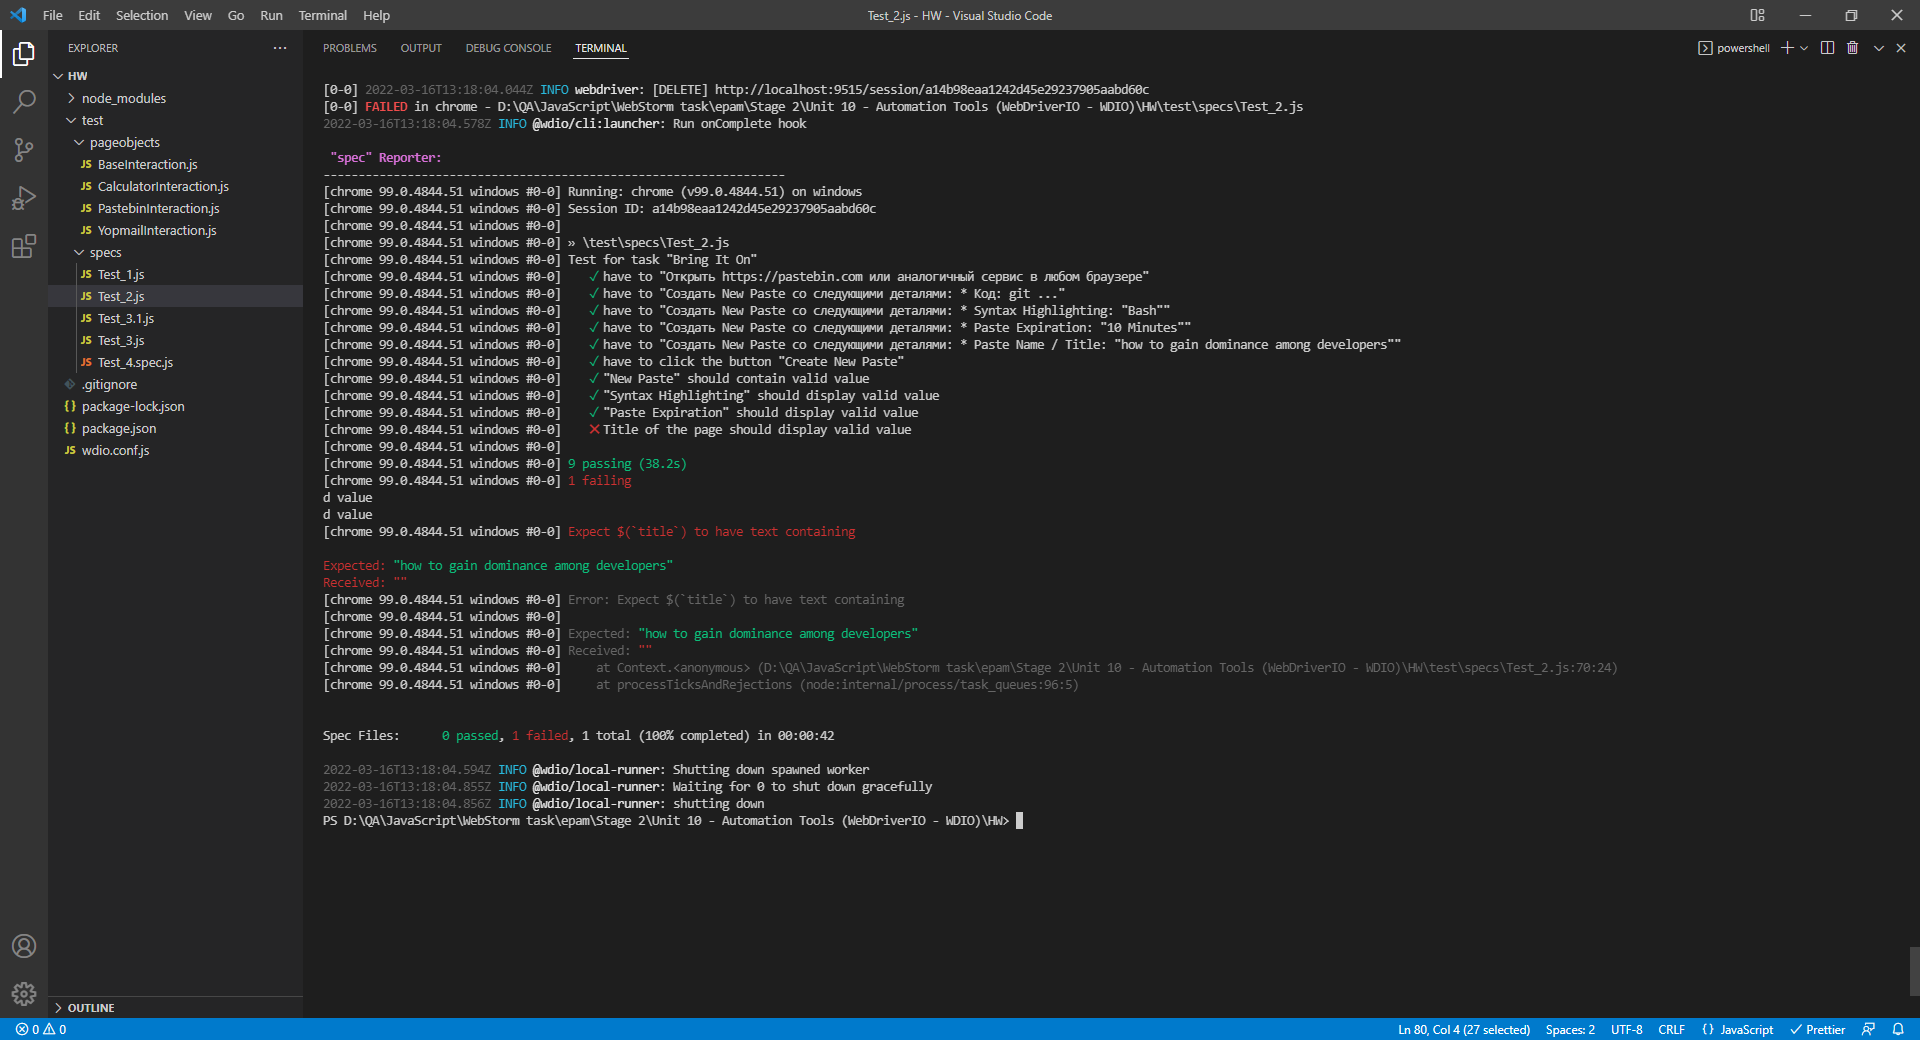
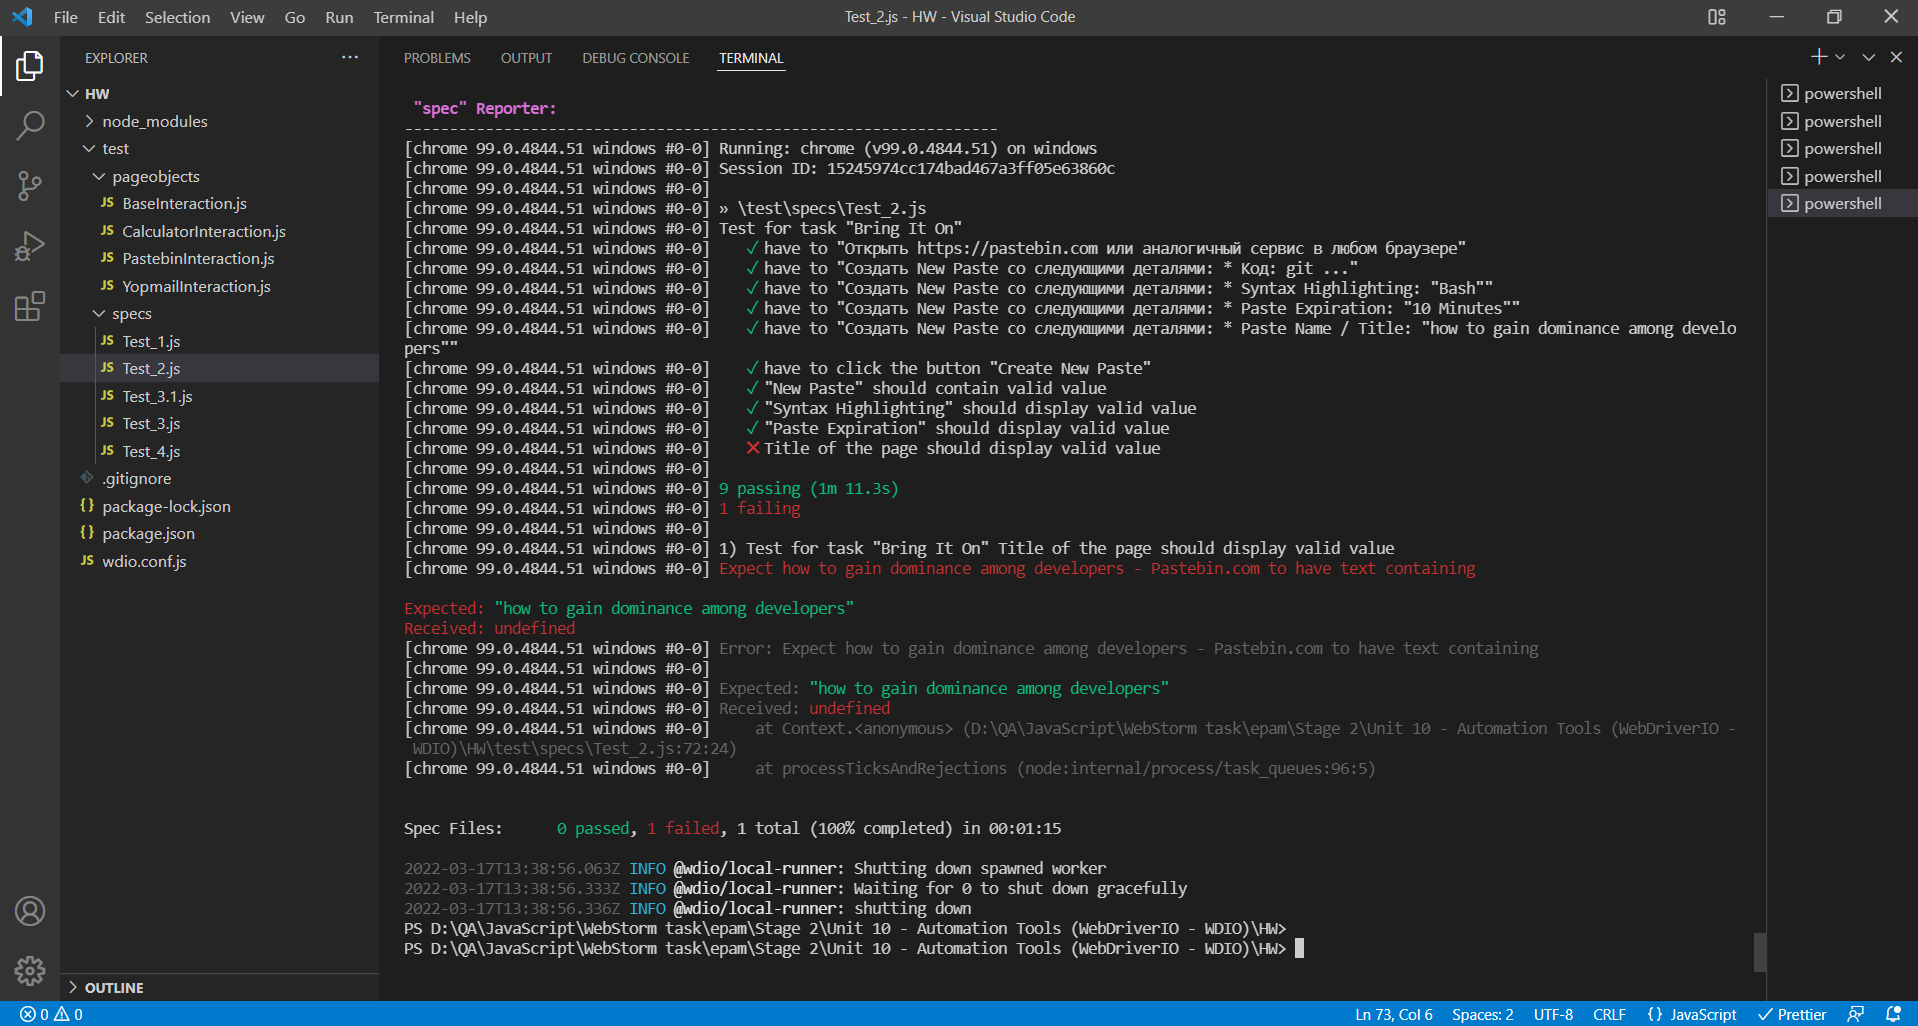
Upload redo files

diff --git a/test/specs/Test_3.1.js b/test/specs/Test_3.1.js
@@ -1,0 +1,86 @@
+const calculator = require('../pageobjects/CalculatorInteraction.js');
+
+describe('Test for task "Hurt Me Plenty"', function () {
+  const textSearchRequest = 'Google Cloud Platform Pricing Calculator';
+
+  const textForInstaces_a = '4';
+  // const contentForInstaces_b = '[class="ng-binding ng-scope"]'; //document.querySelector('[class="ng-binding ng-scope"]').textContent;
+
+  // const typeOfCalcolator_a = By.xpath('//span[text()="Compute Engine"]');
+  // const typeOfCalcolator_b = 'Compute Engine';
+
+  // const operatingSystemb_a = '[class="md-list-item-text flex"]'; //document.querySelector('[class="md-list-item-text flex"]').textContent;
+  // const operatingSystemb_b = 'Operating System / Software: Free';
+
+  const checkFieldVMClass =
+    "//md-list-item[@ng-if='item.items.editHook && item.items.editHook.initialInputs.class']/child::div[@class='md-list-item-text ng-binding']";
+  const vmClass = 'VM class: regular';
+
+  // const instanceType_a = `[ng-class="item.items.sustainedUse || item.items.isInstanceCommitted ? 'cpc-cart-multiline' : ''"]`; //document.querySelector(`[ng-class="item.items.sustainedUse || item.items.isInstanceCommitted ? 'cpc-cart-multiline' : ''"]`).textContent;
+  // const instanceType_b = 'Instance type: n1-standard-8';
+
+  // const ? = By.xpath('//*[text()="Number of GPUs: 1"]');
+  // const ?_1 = 'Number of GPUs: 1'
+  // const ? = By.xpath('//*[text()="GPU type: NVIDIA Tesla V100"]');
+  // const ?_1 = 'GPU type: NVIDIA Tesla V100'
+  // const gpu_a = `[ng-class="item.items.sustainedUse || item.items.isGpuCommitted ? 'cpc-cart-multiline' : ''"]`; //document.querySelector(`[ng-class="item.items.sustainedUse || item.items.isGpuCommitted ? 'cpc-cart-multiline' : ''"]`).textContent;
+  // const gpu_b = 'GPU dies: 1 NVIDIA Tesla V100';
+
+  // const localSSD_a = `[ng-class="item.items.isSsdCommitted ? 'cpc-cart-multiline' : ''"]`; //document.querySelector(`[ng-class="item.items.isSsdCommitted ? 'cpc-cart-multiline' : ''"]`).textContent;
+  // const localSSD_b = 'Local SSD: 2x375 GiB';
+
+  // const region_a = By.xpath('//div[text()="Region: Frankfurt"]'); //[class="md-list-item-text ng-binding"][1]
+  // const region_b = 'Region: Frankfurt';
+
+  // const commitmentTerm_a = By.xpath('//div[text()="Commitment term: 1 Year"]'); //[class="md-list-item-text ng-binding"][3]
+  // const commitmentTerm_b = 'Commitment term: 1 Year';
+
+  // const sumOfRentAuto = By.xpath(
+  //   '//h2[@class="md-title"]/child::b[@class="ng-binding"]'
+  // ); //
+  // const sumOfRentByHand = 'USD 2,277.05 per 1 month';
+  // const calculator = new CalculatorInteraction();
+
+  before(async function () {
+    await calculator.openURL();
+    await calculator.setSearchItem(textSearchRequest);
+    await calculator.startSearching();
+    await calculator.chooseSearchResult();
+    await calculator.switchFrame();
+    await browser.pause(2000);
+    await calculator.switchFrame();
+    await browser.pause(2000);
+    await calculator.chooseTypeOfCalculator();
+    await browser.pause(2000);
+    await calculator.setNumberOfInstances(textForInstaces_a);
+    await browser.pause(2000);
+    await calculator.clearInstancesField();
+    await browser.pause(2000);
+    await calculator.setOperatingSystem();
+    await browser.pause(2000);
+    await calculator.setVMClass();
+    await browser.pause(2000);
+    await calculator.setSeries();
+    await browser.pause(2000);
+    await calculator.setInstancType();
+    await browser.pause(2000);
+    await calculator.setGPUs();
+    await browser.pause(2000);
+    await calculator.setSSD();
+    await browser.pause(2000);
+    await calculator.setDatacenterLocation();
+    await browser.pause(2000);
+    await calculator.setCommitedUsage();
+    await browser.pause(2000);
+    await calculator.clickButtonAddToEstimate();
+    await browser.pause(2000);
+  });
+
+  it('Проверить соответствие данных следующих полей: "* VM Class: Regular"', async function () {
+    await browser.pause(2000);
+    const elem = $(checkFieldVMClass);
+    await expect(elem).toHaveTextContaining(vmClass);
+  });
+});
+
+// npx wdio run ./wdio.conf.js

diff --git a/test/pageobjects/YopmailInteraction.js b/test/pageobjects/YopmailInteraction.js
@@ -1,41 +1,45 @@
-// const { By } = require('selenium-webdriver');
-// const BaseInteraction = require('./BaseInteraction');
+const BaseInteraction = require('./BaseInteraction');
 
-// class YopmailInteraction extends BaseInteraction {
-//   constructor(driver) {
-//     super(driver);
-//     this.url = 'https://yopmail.com/';
+class YopmailInteraction extends BaseInteraction {
+  constructor() {
+    super();
+    this.yopmail = 'https://yopmail.com/';
 
-//     this.newMail = By.xpath(
-//       '//div[@id="listeliens"]/child::a[@href="email-generator"]'
-//     );
-//     this.buttonForCopyMail = By.xpath('//button[@id="cprnd"]');
-//     this.buttonForCheckMail = By.xpath('//button[@onclick="egengo();"]');
-//   }
+    this.generatorEmail =
+      "//div[@id='listeliens']/child::a[@href='email-generator']";
+    this.fieldWithEmail = '#egen';
+    this.copyNewEmail = '#cprnd';
+    this.titleOfCalculator = 'Google Cloud Pricing Calculator';
 
-//   // 9. В новой вкладке открыть https://yopmail.com/ или аналогичный сервис для генерации временных email'ов
-//   async openURL() {
-//     await super.openURL(this.url);
-//   }
-//   // iframe
-//   // async switchFrame() {
-//   //   await super.accessToFrame();
-//   // }
+    this.buttonCheckEmail = "//button[@onclick='egengo();']";
+    this.choosePost = "//div[@class='mctn']/div[@class='m']"; // //div[@class='mctn']/div[2]
+  }
+  // 9. В новой вкладке открыть https://yopmail.com/ или аналогичный сервис для генерации временных email'ов
+  async openNewTab() {
+    await this.openNewWindow(this.yopmail);
+  }
 
-//   async createNewMail() {
-//     this.selectElement(this.newMail);
-//   }
+  // 10. Скопировать почтовый адрес сгенерированный в yopmail.com
+  async setNewEmail() {
+    await this.waitForLoadingExtraElemenOfDOM(this.generatorEmail);
+    await this.clickElement(this.generatorEmail);
+    await this.waitForLoadingExtraElemenOfDOM(this.copyNewEmail);
+    await this.clickElement(this.copyNewEmail);
+  }
 
-//   // 10. Скопировать почтовый адрес сгенерированный в yopmail.com
-//   async copyMail() {
-//     this.selectElement(this.buttonForCopyMail);
-//   }
+  // 11. Вернуться в калькулятор, в поле Email ввести адрес из предыдущего пункта
+  async returnToCalculator() {
+    await this.switchWindown(this.titleOfCalculator);
+  }
 
-//   // 13. Дождаться письма с рассчетом стоимости и проверить что Total Estimated Monthly Cost в письме совпадает с тем,
-//   // что отображается в калькуляторе
-//   async clickButtonForCheckMail() {
-//     this.selectElement(this.buttonForCheckMail);
-//   }
-// }
+  // 13. Дождаться письма с рассчетом стоимости и проверить что Total Estimated Monthly Cost в письме совпадает с тем,
+  // что отображается в калькуляторе
+  async checkPost() {
+    await this.waitForLoadingExtraElemenOfDOM(this.buttonCheckEmail);
+    await this.clickElement(this.buttonCheckEmail);
+    await this.waitForLoadingExtraElemenOfDOM(this.choosePost);
+    await this.clickElement(this.choosePost);
+  }
+}
 
-// module.exports = new YopmailInteraction();
+module.exports = new YopmailInteraction();

diff --git a/test/pageobjects/CalculatorInteraction.js b/test/pageobjects/CalculatorInteraction.js
@@ -56,21 +56,11 @@ class CalculatorInteraction extends BaseInteraction {
 
     this.buttonEmailEstimate = "//button[@id='email_quote']";
 
-    this.yopmail = 'https://yopmail.com/';
-
-    this.generatorEmail =
-      "//div[@id='listeliens']/child::a[@href='email-generator']";
-    this.fieldWithEmail = '#egen';
-    this.copyNewEmail = '#cprnd';
-    this.titleOfCalculator = 'Google Cloud Pricing Calculator';
-    this.inputForEmail =
-      "//md-input-container[@class='flex md-input-invalid']/child::input[@id='input_542']";
+    this.inputForEmail = "//input[@type='email']";
 
     this.buttonSendEmail = '//button[@aria-label="Send Email"]';
 
     this.urlYopMail = 'https://yopmail.com/ru/email-generator';
-    this.buttonCheckEmail = "//button[@onclick='egengo();']";
-    this.choosePost = "//div[@class='mctn']/div[@class='m']"; // //div[@class='mctn']/div[2]
   }
   // 1. Открыть https://cloud.google.com/
   async openURL() {
@@ -197,24 +187,7 @@ class CalculatorInteraction extends BaseInteraction {
     await this.clickElement(this.buttonEmailEstimate);
   }
 
-  // 9. В новой вкладке открыть https://yopmail.com/ или аналогичный сервис для генерации временных email'ов
-  async openNewTab() {
-    await this.openNewWindow(this.yopmail);
-  }
-
-  // 10. Скопировать почтовый адрес сгенерированный в yopmail.com
-  async setNewEmail() {
-    await this.waitForLoadingExtraElemenOfDOM(this.generatorEmail);
-    await this.clickElement(this.generatorEmail);
-    await this.waitForLoadingExtraElemenOfDOM(this.copyNewEmail);
-    await this.clickElement(this.copyNewEmail);
-  }
-
   // 11. Вернуться в калькулятор, в поле Email ввести адрес из предыдущего пункта
-  async returnToCalculator() {
-    await this.switchWindown(this.titleOfCalculator);
-  }
-
   async pasteNewEmail() {
     await this.waitForLoadingExtraElemenOfDOM(this.inputForEmail);
     await this.clickElement(this.inputForEmail);
@@ -231,13 +204,6 @@ class CalculatorInteraction extends BaseInteraction {
   // что отображается в калькуляторе
   async returnToYopmail() {
     await this.switchWindown(this.urlYopMail);
-  }
-
-  async checkPost() {
-    await this.waitForLoadingExtraElemenOfDOM(this.buttonCheckEmail);
-    await this.clickElement(this.buttonCheckEmail);
-    await this.waitForLoadingExtraElemenOfDOM(this.choosePost);
-    await this.clickElement(this.choosePost);
   }
 }
 

diff --git a/test/specs/Test_4.js b/test/specs/Test_4.js
@@ -1,4 +1,5 @@
 const calculator = require('../pageobjects/CalculatorInteraction.js');
+const yopmail = require('../pageobjects/YopmailInteraction.js');
 
 describe('Test for task "Hardcore"', function () {
   const textSearchRequest = 'Google Cloud Platform Pricing Calculator';
@@ -101,17 +102,17 @@ describe('Test for task "Hardcore"', function () {
   });
 
   it('have to "9. В новой вкладке открыть https://yopmail.com/ или аналогичный сервис для генерации временных email\'ов"', async function () {
-    await calculator.openNewTab();
+    await yopmail.openNewTab();
     await browser.pause(2000);
   });
 
   it('have to "10. Скопировать почтовый адрес сгенерированный в yopmail.com"', async function () {
-    await calculator.setNewEmail();
+    await yopmail.setNewEmail();
     await browser.pause(2000);
   });
 
   it('have to "11.1 Вернуться в калькулятор"', async function () {
-    await calculator.returnToCalculator();
+    await yopmail.returnToCalculator();
     await browser.pause(2000);
     // await calculator.pasteNewEmail();
     // await browser.pause(2000);
@@ -120,6 +121,11 @@ describe('Test for task "Hardcore"', function () {
   it('have to "11.2 В поле Email ввести адрес из предыдущего пункта"', async function () {
     // await calculator.returnToCalculator();
     // await browser.pause(2000);
+    // await browser.pause(2000);
+    // await calculator.switchFrame();
+    // await browser.pause(2000);
+    // await calculator.switchFrame();
+    await browser.pause(2000);
     await calculator.pasteNewEmail();
     await browser.pause(2000);
   });
@@ -133,7 +139,7 @@ describe('Test for task "Hardcore"', function () {
   it('have to "13.1. Дождаться письма с рассчетом стоимости"', async function () {
     await calculator.returnToYopmail();
     await browser.pause(2000);
-    await calculator.checkPost();
+    await yopmail.checkPost();
     await browser.pause(2000);
   });
 

diff --git a/test/specs/Test_1.js b/test/specs/Test_1.js
@@ -2,7 +2,6 @@ const pastebin = require('../pageobjects/PastebinInteraction');
 
 describe('Test for task "I Can Win"', function () {
   const textNewPaste = 'Hello from WebDriver';
-  const textHighlighting = 'Bash';
   const textPasteName = 'helloweb';
 
   it('have to "Открыть https://pastebin.com или аналогичный сервис в любом браузере"', async function () {
@@ -10,13 +9,8 @@ describe('Test for task "I Can Win"', function () {
     await browser.pause(2000);
   });
 
-  it('have to "Создать New Paste со следующими деталями: * Код: git ..."', async function () {
+  it('have to "Создать New Paste со следующими деталями: * Код: "Hello from WebDriver""', async function () {
     await pastebin.inputNewPaste(textNewPaste);
-    await browser.pause(2000);
-  });
-
-  it('have to "Создать New Paste со следующими деталями: * Syntax Highlighting: "Bash""', async function () {
-    await pastebin.setSyntaxHighlightning(textHighlighting);
     await browser.pause(2000);
   });
 
@@ -25,7 +19,7 @@ describe('Test for task "I Can Win"', function () {
     await browser.pause(2000);
   });
 
-  it('have to "Создать New Paste со следующими деталями: * Paste Name / Title: "how to gain dominance among developers""', async function () {
+  it('have to "Создать New Paste со следующими деталями: * Paste Name / Title: "helloweb""', async function () {
     await pastebin.inputPasteName(textPasteName);
     await browser.pause(2000);
   });

diff --git a/test/specs/Test_2.js b/test/specs/Test_2.js
@@ -66,15 +66,11 @@ describe('Test for task "Bring It On"', function () {
   // // * Заголовок страницы браузера соответствует Paste Name / Title
   it('Title of the page should display valid value', async function () {
     await browser.pause(2000);
-    const elem = await $(contentPasteNameTitle); // await browser.getTitle(); //
+    // const elem = await $(contentPasteNameTitle); // await browser.getTitle(); //
+    // const textTitle = elem.getTitle();
+    const elem = await browser.getTitle();
     await expect(elem).toHaveTextContaining(textPasteName);
   });
-
-  // [chrome 99.0.4844.51 windows #0-0] 5) Test for task "Bring It On" Title of the page should display valid value
-  // [chrome 99.0.4844.51 windows #0-0] Expect $(`title`) to have text containing
-
-  // Expected: "how to gain dominance among developers"
-  // Received: ""
 });
 
 // npx wdio run ./wdio.conf.js
